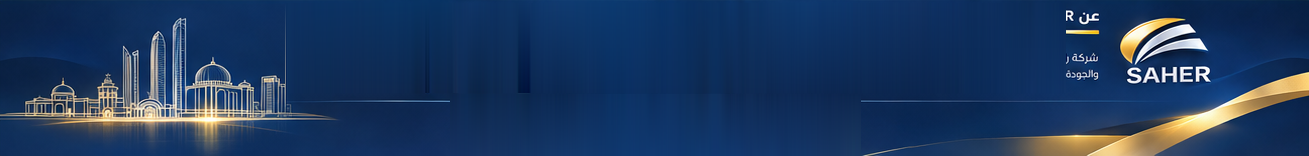
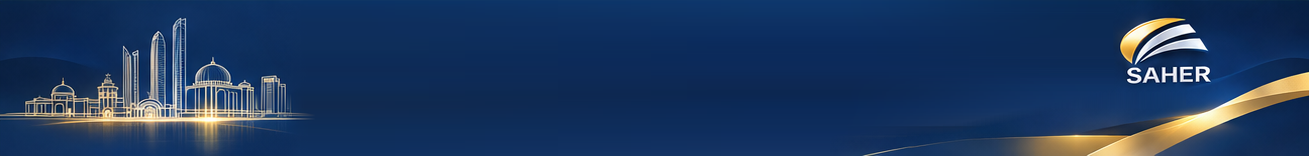
refactor: update footer background and layout
Refactor the footer component to use a CSS linear-gradient background, simplify the layout structure, and remove redundant image assets for better performance and maintainability.

diff --git a/components/Footer.tsx b/components/Footer.tsx
@@ -5,104 +5,126 @@ const Footer: React.FC = () => {
   return (
     <footer
       id="contact"
-      className="w-full relative bg-gradient-to-r from-[#092248] via-[#0D366B] to-[#092248] text-white pt-6 pb-4 border-t-[3px] border-[#E3B343] overflow-hidden"
+      className="w-full relative bg-[linear-gradient(180deg,#0F3769_0%,#0D3163_10%,#0D2E5F_19%,#0C2C5A_32%,#0D2A57_48%,#0E2953_65%,#0E2D5A_81%,#113060_94%,#133361_100%)] text-white border-t-[2.5px] border-[#E3B343] overflow-hidden select-none"
     >
-      {/* Upper Main Section: 5 balanced zones (Skyline on left, 3 columns in center, SAHER Logo & Golden Wave on right) */}
-      <div className="w-full max-w-[1380px] mx-auto px-4 sm:px-6 lg:px-8">
-        <div className="flex flex-col lg:flex-row items-center justify-between gap-6 lg:gap-4 relative z-10">
-          
-          {/* 1. Right Side (in RTL, first in DOM): SAHER Logo & Golden Wave Ribbon */}
-          <div className="shrink-0 flex items-center justify-center lg:justify-end order-1 lg:order-1 w-full lg:w-auto">
-            <img
-              src={`${import.meta.env.BASE_URL}assets/footer-right-art.png`}
-              alt="SAHER Smart Services"
-              referrerPolicy="no-referrer"
-              className="h-[115px] sm:h-[130px] lg:h-[145px] w-auto object-contain select-none pointer-events-none drop-shadow-sm"
-              onError={(e) => {
-                e.currentTarget.style.display = 'none';
-              }}
-            />
-          </div>
+      {/* Desktop Unified Background Layer: Right SAHER Logo + Full Sweeping Golden Wave */}
+      <img
+        src={`${import.meta.env.BASE_URL}assets/footer-right-art.png`}
+        alt="SAHER Smart Services"
+        referrerPolicy="no-referrer"
+        className="hidden lg:block absolute right-0 top-0 bottom-0 h-full w-auto object-contain object-right-bottom pointer-events-none select-none z-0"
+        onError={(e) => {
+          e.currentTarget.style.display = 'none';
+        }}
+      />
 
-          {/* 2. Center: Three Content Columns (عن SAHER / روابط سريعة / تواصل معنا) */}
-          <div className="flex-1 w-full grid grid-cols-1 md:grid-cols-3 gap-6 lg:gap-8 text-center md:text-right order-2 lg:order-2">
+      {/* Desktop Unified Background Layer: Left Abu Dhabi Skyline & Golden Reflection */}
+      <img
+        src={`${import.meta.env.BASE_URL}assets/footer-skyline.png`}
+        alt="أفق أبوظبي العمراني"
+        referrerPolicy="no-referrer"
+        className="hidden lg:block absolute left-0 top-0 bottom-0 h-full w-auto object-contain object-left-bottom pointer-events-none select-none z-0"
+        onError={(e) => {
+          e.currentTarget.style.display = 'none';
+        }}
+      />
+
+      {/* Main Content Wrapper */}
+      <div className="w-full relative z-10 pt-5 pb-3.5 lg:pt-2.5 lg:pb-2 flex flex-col justify-between lg:min-h-[156px]">
+        
+        {/* Mobile/Tablet Only: Top Centered SAHER Logo */}
+        <div className="flex lg:hidden items-center justify-center mb-4 px-4">
+          <img
+            src={`${import.meta.env.BASE_URL}assets/footer-logo.png`}
+            alt="SAHER Smart Services"
+            referrerPolicy="no-referrer"
+            className="h-16 w-auto object-contain rounded-lg"
+            onError={(e) => {
+              e.currentTarget.style.display = 'none';
+            }}
+          />
+        </div>
+
+        {/* Upper Zone: Three Balanced Columns (RTL: 1. عن SAHER [Right] | 2. روابط سريعة [Center] | 3. تواصل معنا [Left]) */}
+        <div className="w-full px-4 sm:px-8 lg:pr-[max(208px,16.1%)] lg:pl-[max(295px,24.8%)]">
+          <div className="w-full flex flex-col md:flex-row items-center md:items-start justify-between gap-6 md:gap-4 lg:gap-6 text-center md:text-right select-text">
             
-            {/* Column 1 (Right in RTL): About SAHER */}
-            <div className="flex flex-col items-center md:items-start">
-              <div className="mb-2">
-                <h3 className="text-base lg:text-[17px] font-extrabold text-white tracking-wide">
+            {/* Column 1 (Right in RTL): عن SAHER */}
+            <div className="flex flex-col items-center md:items-start lg:max-w-[270px] xl:max-w-[295px]">
+              <div className="mb-2 lg:mb-2.5">
+                <h3 className="text-[15.5px] lg:text-[16.5px] font-extrabold text-white tracking-wide leading-tight">
                   عن SAHER
                 </h3>
-                <div className="w-14 h-[2.5px] bg-[#E3B343] mt-1.5 rounded-full mx-auto md:mr-0" />
+                <div className="w-[86px] h-[2.5px] bg-gradient-to-l from-[#F6CC68] via-[#E3B343] to-[#E3B343]/15 mt-1 rounded-full mx-auto md:mr-0" />
               </div>
-              <p className="text-slate-200 text-xs lg:text-[13px] leading-relaxed font-medium max-w-xs text-center md:text-right">
+              <p className="text-slate-100/95 text-xs lg:text-[12.5px] leading-[1.65] font-medium text-center md:text-right">
                 شركة رائدة في تقديم حلول إدارة المرافق وتطوير الابتكار والجودة لتحقيق أعلى مستويات الكفاءة والخدمات الذكية.
               </p>
             </div>
 
-            {/* Column 2 (Middle in RTL): Quick Links */}
-            <div className="flex flex-col items-center md:items-start md:mr-4 lg:mr-8">
-              <div className="mb-2">
-                <h3 className="text-base lg:text-[17px] font-extrabold text-white tracking-wide">
+            {/* Column 2 (Center in RTL): روابط سريعة */}
+            <div className="flex flex-col items-center md:items-start lg:ml-4">
+              <div className="mb-1.5 lg:mb-1.5">
+                <h3 className="text-[15.5px] lg:text-[16.5px] font-extrabold text-white tracking-wide leading-tight">
                   روابط سريعة
                 </h3>
-                <div className="w-14 h-[2.5px] bg-[#E3B343] mt-1.5 rounded-full mx-auto md:mr-0" />
+                <div className="w-[96px] h-[2.5px] bg-gradient-to-l from-[#F6CC68] via-[#E3B343] to-[#E3B343]/15 mt-1 rounded-full mx-auto md:mr-0" />
               </div>
-              <ul className="space-y-2 text-slate-100 text-xs lg:text-[13px] font-semibold w-full flex flex-col items-center md:items-start">
+              <ul className="space-y-1 text-slate-100 text-xs lg:text-[12.5px] font-semibold flex flex-col items-center md:items-start">
                 <li>
                   <a
                     href="#"
-                    className="flex items-center gap-2 text-slate-100 hover:text-[#E3B343] transition-colors duration-200 group"
+                    className="flex items-center gap-2.5 text-slate-100 hover:text-[#E3B343] transition-colors duration-200 group"
                   >
-                    <Home size={15} className="text-[#E3B343] shrink-0 group-hover:scale-110 transition-transform" />
+                    <Home size={14} className="text-[#E3B343] shrink-0 group-hover:scale-110 transition-transform" />
                     <span>الرئيسية</span>
                   </a>
                 </li>
                 <li>
                   <a
                     href="#services"
-                    className="flex items-center gap-2 text-slate-100 hover:text-[#E3B343] transition-colors duration-200 group"
+                    className="flex items-center gap-2.5 text-slate-100 hover:text-[#E3B343] transition-colors duration-200 group"
                   >
-                    <LayoutGrid size={15} className="text-[#E3B343] shrink-0 group-hover:scale-110 transition-transform" />
+                    <LayoutGrid size={14} className="text-[#E3B343] shrink-0 group-hover:scale-110 transition-transform" />
                     <span>خدماتنا</span>
                   </a>
                 </li>
                 <li>
                   <a
                     href="#contact"
-                    className="flex items-center gap-2 text-slate-100 hover:text-[#E3B343] transition-colors duration-200 group"
+                    className="flex items-center gap-2.5 text-slate-100 hover:text-[#E3B343] transition-colors duration-200 group"
                   >
-                    <Mail size={15} className="text-[#E3B343] shrink-0 group-hover:scale-110 transition-transform" />
+                    <Mail size={14} className="text-[#E3B343] shrink-0 group-hover:scale-110 transition-transform" />
                     <span>تواصل معنا</span>
                   </a>
                 </li>
               </ul>
             </div>
 
-            {/* Column 3 (Left in RTL): Contact Us */}
+            {/* Column 3 (Left in RTL): تواصل معنا */}
             <div className="flex flex-col items-center md:items-start">
-              <div className="mb-2">
-                <h3 className="text-base lg:text-[17px] font-extrabold text-white tracking-wide">
+              <div className="mb-1.5 lg:mb-1.5">
+                <h3 className="text-[15.5px] lg:text-[16.5px] font-extrabold text-white tracking-wide leading-tight">
                   تواصل معنا
                 </h3>
-                <div className="w-14 h-[2.5px] bg-[#E3B343] mt-1.5 rounded-full mx-auto md:mr-0" />
+                <div className="w-[92px] h-[2.5px] bg-gradient-to-l from-[#F6CC68] via-[#E3B343] to-[#E3B343]/15 mt-1 rounded-full mx-auto md:mr-0" />
               </div>
-              <ul className="space-y-2.5 text-slate-100 text-xs lg:text-[13px] font-medium w-full flex flex-col items-center md:items-start">
+              <ul className="space-y-1 text-slate-100 text-xs lg:text-[12.5px] font-medium flex flex-col items-center md:items-start">
                 <li className="flex items-center gap-2.5 justify-center md:justify-start">
-                  <MapPin size={15} className="text-[#E3B343] shrink-0" />
-                  <span dir="ltr" className="text-slate-100 text-center md:text-left">
+                  <MapPin size={14} className="text-[#E3B343] shrink-0" />
+                  <span dir="ltr" className="text-slate-100 text-center md:text-right">
                     Level 3, Baynona Building, Khalifa City A
                   </span>
                 </li>
                 <li className="flex items-center gap-2.5 justify-center md:justify-start">
-                  <Phone size={15} className="text-[#E3B343] shrink-0" />
-                  <span dir="ltr" className="tracking-wider tabular-nums text-slate-100">
+                  <Phone size={14} className="text-[#E3B343] shrink-0" />
+                  <span dir="ltr" className="tracking-wider tabular-nums text-slate-100 text-center md:text-right">
                     +971 4 123 4567
                   </span>
                 </li>
                 <li className="flex items-center gap-2.5 justify-center md:justify-start">
-                  <Mail size={15} className="text-[#E3B343] shrink-0" />
-                  <span dir="ltr" className="text-slate-100">
+                  <Mail size={14} className="text-[#E3B343] shrink-0" />
+                  <span dir="ltr" className="text-slate-100 text-center md:text-right">
                     Logistic@saher.ae
                   </span>
                 </li>
@@ -110,38 +132,41 @@ const Footer: React.FC = () => {
             </div>
 
           </div>
-
-          {/* 3. Left Side (in RTL, last in DOM): Abu Dhabi Skyline */}
-          <div className="shrink-0 flex items-end justify-center lg:justify-start order-3 lg:order-3 w-full lg:w-auto">
-            <img
-              src={`${import.meta.env.BASE_URL}assets/footer-skyline.png`}
-              alt="أفق أبوظبي العمراني"
-              referrerPolicy="no-referrer"
-              className="h-[110px] sm:h-[125px] lg:h-[140px] w-auto object-contain object-bottom select-none pointer-events-none drop-shadow-sm"
-              onError={(e) => {
-                e.currentTarget.style.display = 'none';
-              }}
-            />
-          </div>
-
         </div>
 
-        {/* Separator Line */}
-        <div className="mt-5 mb-3 border-t border-[#1E4378]/70 relative">
-          {/* Centered Credit Pill sitting gracefully on the divider line */}
-          <div className="absolute left-1/2 -top-3.5 -translate-x-1/2">
-            <div className="flex items-center gap-2 bg-[#0B254E] py-1 px-5 rounded-full border border-[#3B68A6]/70 shadow-sm text-xs whitespace-nowrap">
-              <span className="text-slate-200 font-medium">إعداد وتصميم</span>
-              <span className="text-[#E3B343]">/</span>
+        {/* Mobile/Tablet Only: Abu Dhabi Skyline Preview */}
+        <div className="flex lg:hidden items-center justify-center mt-4 px-4">
+          <img
+            src={`${import.meta.env.BASE_URL}assets/footer-skyline.png`}
+            alt="أفق أبوظبي العمراني"
+            referrerPolicy="no-referrer"
+            className="h-24 sm:h-28 w-auto object-contain pointer-events-none select-none"
+            onError={(e) => {
+              e.currentTarget.style.display = 'none';
+            }}
+          />
+        </div>
+
+        {/* Lower Zone: Horizontal Separator Line + Centered Credit Pill + Centered Copyright */}
+        <div className="w-full mt-5 lg:mt-2.5 select-text relative">
+          {/* Separator Line spanning cleanly between the Left Skyline and Right Golden Wave */}
+          <div className="relative w-full h-6 flex items-center justify-center">
+            <div className="w-[90%] lg:w-auto lg:absolute lg:left-[21.5%] lg:right-[15.8%] h-[1px] bg-gradient-to-r from-transparent via-[#5B8FD1]/80 to-transparent" />
+            
+            {/* Centered Credit Capsule Pill */}
+            <div className="relative z-10 flex items-center gap-1.5 bg-gradient-to-b from-[#133B73] via-[#0B254E] to-[#0E2F5E] py-[2px] px-5 rounded-full border border-[#6BA3E8]/85 shadow-[0_0_12px_rgba(74,144,226,0.35),inset_0_1px_1px_rgba(255,255,255,0.25)] text-[11px] lg:text-[11.5px] whitespace-nowrap">
+              <span className="text-slate-100 font-semibold">إعداد وتصميم</span>
+              <span className="text-[#E3B343] font-bold">/</span>
               <span className="text-white font-bold">خالد الهاشمي</span>
             </div>
           </div>
+
+          {/* Centered Copyright Line */}
+          <div className="w-full text-center text-[11px] lg:text-[11.5px] font-semibold tracking-wide text-slate-200/95 pt-1 lg:pt-0.5">
+            جميع الحقوق محفوظة لشركة SAHER FOR SMART SERVICES 2026 &copy;
+          </div>
         </div>
 
-        {/* Copyright */}
-        <div className="text-center text-[11.5px] font-semibold tracking-wide text-slate-300 pt-3">
-          جميع الحقوق محفوظة لشركة SAHER FOR SMART SERVICES 2026 &copy;
-        </div>
       </div>
     </footer>
   );
